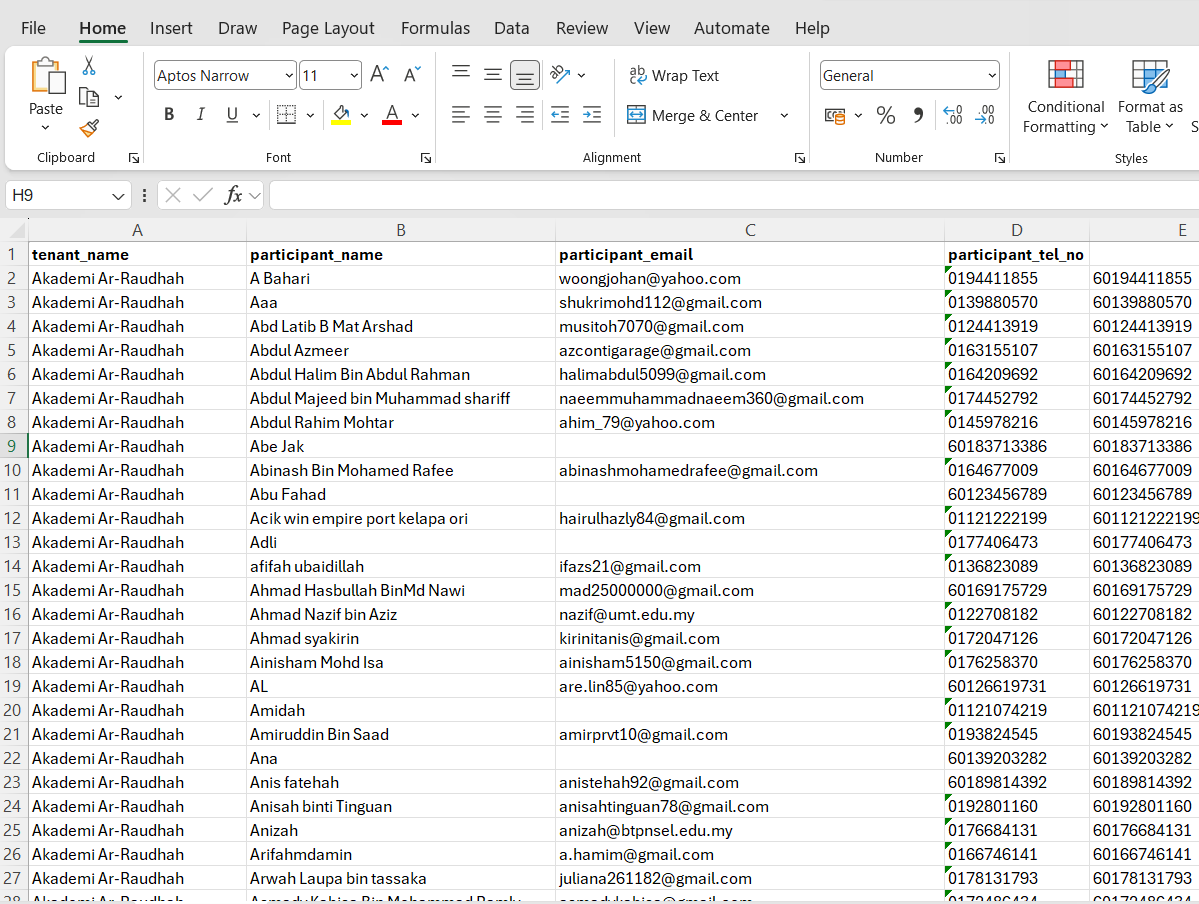
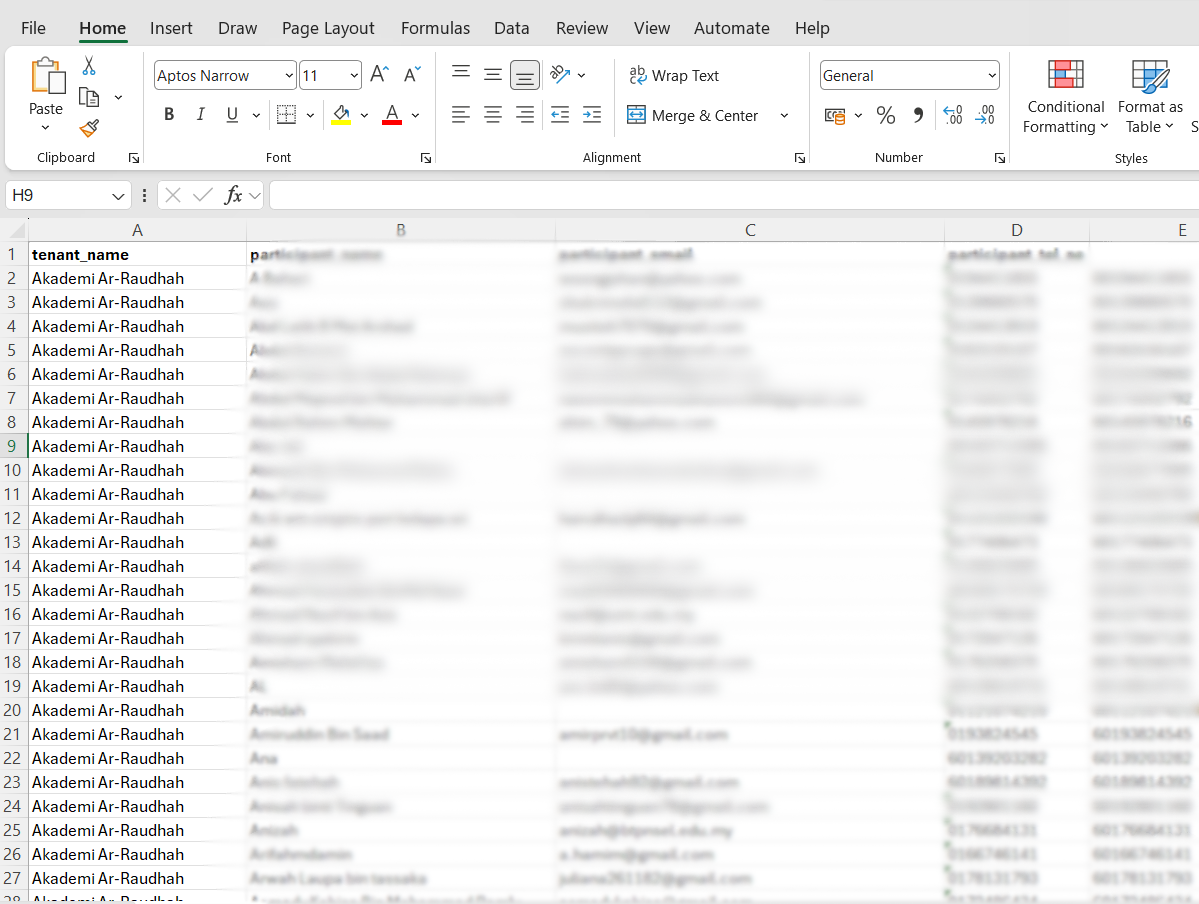
Add image

diff --git a/src/pages/ExecutiveSummary.jsx b/src/pages/ExecutiveSummary.jsx
@@ -40,19 +40,19 @@ function ExecutiveSummary() {
         >
           <div className="space-y-6">
             <p className={`leading-relaxed text-base first-letter:text-4xl first-letter:font-bold first-letter:text-blue-600 ${darkMode ? 'text-gray-200' : 'text-gray-700'}`}>
-              After completing my Industrial Training at HIT Digital Marketing Sdn. Bhd. under the Database Customer Management (DCM) Department, I gained valuable exposure to the professional working environment, particularly in the field of digital marketing and customer database management. The experience provided meaningful opportunities to develop practical skills and a deeper understanding of how digital marketing operations are conducted in a real organizational setting. This achievement brings a sense of pride and appreciation for the knowledge and experience gained, which will serve as a strong foundation for future career development.
+              After completing my Industrial Training at HIT Digital Marketing Sdn. Bhd. under the Database Customer Management (DCM) Department, I gained valuable exposure to the professional working environment, particularly in the field of digital marketing and customer database management. The experience provided meaningful opportunities to develop practical skills and a deeper understanding of how digital marketing operations are conducted in a real organizational setting. This achievement brought a sense of pride and appreciation for the knowledge and experience gained, which served as a strong foundation for future career development.
             </p>
             <p className={`leading-relaxed text-base ${darkMode ? 'text-gray-200' : 'text-gray-700'}`}>
               During the training period, I was involved in various tasks related to customer data management and digital marketing activities. These responsibilities included updating and organizing customer information, recording donation collections, and managing communication through the WhatsApp dashboard. I also assisted in setting up WhatsApp blasting campaigns, following up with customers, and verifying WhatsApp Business accounts to ensure smooth communication with clients and donors.
             </p>
             <p className={`leading-relaxed text-base ${darkMode ? 'text-gray-200' : 'text-gray-700'}`}>
-              Throughout the training, I had the opportunity to observe and participate in several meetings and seminars related to WhatsApp automation tools and digital marketing strategies. These experiences enhanced my understanding of how digital marketing campaigns are planned, executed, and monitored within an organization.
+              Throughout the training, I had the opportunity to observe and participate in several meetings and seminars related to WhatsApp automation tools and digital marketing strategies. These experiences enhanced my understanding of how digital marketing campaigns were planned, executed, and monitored within an organization.
             </p>
             <p className={`leading-relaxed text-base ${darkMode ? 'text-gray-200' : 'text-gray-700'}`}>
               The training also provided valuable insights into workplace professionalism, teamwork, and effective communication. Although some tasks required adapting to new tools and systems, the experience strengthened my ability to learn quickly, manage responsibilities efficiently, and work collaboratively within a team.
             </p>
             <p className={`leading-relaxed text-base first-letter:text-3xl first-letter:font-bold first-letter:text-blue-600 ${darkMode ? 'text-gray-200' : 'text-gray-700'}`}>
-              In conclusion, the Industrial Training at HIT Digital Marketing Sdn. Bhd. has been an important learning experience that contributed significantly to both my personal and professional development. The knowledge and skills gained throughout this period have prepared me to face future challenges with greater confidence, while fostering a strong appreciation for teamwork, responsibility, and continuous learning in a professional environment.
+              In conclusion, the Industrial Training at HIT Digital Marketing Sdn. Bhd. was an important learning experience that contributed significantly to both my personal and professional development. The knowledge and skills gained throughout this period prepared me to face future challenges with greater confidence, while fostering a strong appreciation for teamwork, responsibility, and continuous learning in a professional environment.
             </p>
           </div>
         </div>

diff --git a/src/pages/Conclusion.jsx b/src/pages/Conclusion.jsx
@@ -33,16 +33,16 @@ function Conclusion() {
           }`}
         >
           <p>
-            After completing my Industrial Training at Hit Digital Marketing Sdn. Bhd., I understood more clearly how the real working world operates.
-            I gained useful knowledge and hands-on experience. Finishing this training makes me proud and thankful for what I learned,
-            and I believe it will help me in my future plans. Throughout the training, I was introduced to new ideas and also saw firsthand
-            what life in a professional workplace is like.
+            After completing my Industrial Training at Hit Digital Marketing Sdn. Bhd., I understood more clearly how the real working world operated.
+            I gained useful knowledge and hands-on experience. Finishing this training made me proud and thankful for what I learned,
+            and I believed it would help me in my future plans. Throughout the training, I was introduced to new ideas and also saw firsthand
+            what life in a professional workplace was like.
           </p>
 
           <p>
             This program also gave students the chance to grow by observing the employees’ daily routines and their disciplined work attitude.
-            I became more aware of how my academic subjects connect to my career goals. Sometimes what we learn in theory does not match
-            the practical tasks during training, but I clearly saw that being serious and having real interest are important when preparing
+            I became more aware of how my academic subjects connected to my career goals. Sometimes what we learned in theory did not match
+            the practical tasks during training, but I clearly saw that being serious and having real interest was important when preparing
             for the professional world.
           </p>
 
@@ -55,7 +55,7 @@ function Conclusion() {
           <p>
             In summary, Industrial Training is an important opportunity for students to learn not only academically and technically, but also in the
             different responsibilities of an employee’s role. During this period, I experienced a real workplace and learned that building good
-            relationships between employees and trainees matters. These connections help strengthen professional bonds and support teamwork
+            relationships between employees and trainees mattered. These connections helped strengthen professional bonds and supported teamwork
             within the working environment.
           </p>
 

diff --git a/src/pages/weeks/week19.jsx b/src/pages/weeks/week19.jsx
@@ -9,8 +9,9 @@ function Week19() {
   const { darkMode } = useDarkMode();
   
   const images = [
-    '/images/week19.jpg',
-    '/images/week19.jpg'
+    "/images/Template2.png",
+    "/images/List.png",
+    "/images/Zulhijjah.png",
   ];
   
   const [currentIndex, setCurrentIndex] = useState(0);
@@ -29,9 +30,8 @@ function Week19() {
   const navigate = useNavigate();
 
   return (
-<section
-      className="relative flex flex-col flex-grow min-h-0 px-6 overflow-hidden"
-
+    <section
+      className="relative flex flex-col justify-center flex-grow px-6 py-20 overflow-hidden"
       style={{
         background: darkMode 
           ? "linear-gradient(135deg, #0a0a0a 0%, #1a1a1a 50%, #0a0a0a 100%)"
@@ -141,7 +141,7 @@ function Week19() {
                     key={idx}
                     src={src}
                     alt={`Week 19 Image ${idx + 1}`}
-                    className="w-full h-full flex-shrink-0 object-cover"
+                    className="w-full h-full flex-shrink-0 object-contain bg-black"
                   />
                 ))}
               </div>

diff --git a/src/pages/weeks/week10.jsx b/src/pages/weeks/week10.jsx
@@ -8,7 +8,7 @@ function Week10() {
   const { darkMode } = useDarkMode();
   const navigate = useNavigate();
 
-  const images = ["/images/week10.jpg", "/images/week10.jpg"];
+  const images = ["/images/AC1.png", "/images/AC2.jpeg", "/images/AC3.jpeg"];
   const [currentIndex, setCurrentIndex] = useState(0);
   const [isPaused, setIsPaused] = useState(false);
 
@@ -83,7 +83,12 @@ function Week10() {
             >
               <div className="flex h-full transition-transform duration-700 ease-in-out" style={{ transform: `translateX(-${currentIndex * 100}%)` }}>
                 {images.map((src, idx) => (
-                  <img key={idx} src={src} alt={`Week 10 Image ${idx + 1}`} className="w-full h-full flex-shrink-0 object-cover" />
+                  <img
+                    key={idx}
+                    src={src}
+                    alt={`Week 10 Image ${idx + 1}`}
+                    className="w-full h-full flex-shrink-0 object-contain bg-black"
+                  />
                 ))}
               </div>
 

diff --git a/src/pages/weeks/week11.jsx b/src/pages/weeks/week11.jsx
@@ -8,7 +8,7 @@ function Week11() {
   const { darkMode } = useDarkMode();
   const navigate = useNavigate();
 
-  const images = ["/images/week11.jpg", "/images/week11.jpg"];
+  const images = ["/images/NoClient.png", "/images/NoBlurr.png"];
   const [currentIndex, setCurrentIndex] = useState(0);
   const [isPaused, setIsPaused] = useState(false);
 
@@ -66,7 +66,7 @@ function Week11() {
             >
               <div className="flex h-full transition-transform duration-700 ease-in-out" style={{ transform: `translateX(-${currentIndex * 100}%)` }}>
                 {images.map((src, idx) => (
-                  <img key={idx} src={src} alt={`Week 11 Image ${idx + 1}`} className="w-full h-full flex-shrink-0 object-cover" />
+                  <img key={idx} src={src} alt={`Week 11 Image ${idx + 1}`} className="w-full h-full flex-shrink-0 object-contain bg-black" />
                 ))}
               </div>
               <button onClick={() => setCurrentIndex((prev) => (prev - 1 + images.length) % images.length)}

diff --git a/src/pages/weeks/week15.jsx b/src/pages/weeks/week15.jsx
@@ -9,8 +9,12 @@ function Week15() {
   const navigate = useNavigate();
 
   const images = [
-    '/images/week15.jpg',
-    '/images/week15.jpg'
+    "/images/MPR1.png",
+    "/images/MPR2.png",
+    "images/AiCourse.png",
+    "/images/Raya1.png",
+    "/images/Raya2.png",
+    "/images/Raya3.png",
   ];
   
   const [currentIndex, setCurrentIndex] = useState(0);
@@ -111,7 +115,7 @@ function Week15() {
                     key={idx}
                     src={src}
                     alt={`Week 15 Image ${idx + 1}`}
-                    className="w-full h-full flex-shrink-0 object-cover"
+                    className="w-full h-full flex-shrink-0 object-contain bg-black"
                   />
                 ))}
               </div>

diff --git a/src/pages/weeks/week16.jsx b/src/pages/weeks/week16.jsx
@@ -9,8 +9,11 @@ function Week16() {
   const { darkMode } = useDarkMode();
   
   const images = [
-    '/images/week16.jpg',
-    '/images/week16.jpg'
+    "images/Blasting.png",
+    "images/Broadcast.png",
+    "/images/Asset1.png",
+    "/images/Asset2.png",
+    "/images/Asset3.png",
   ];
   
   const [currentIndex, setCurrentIndex] = useState(0);
@@ -111,7 +114,7 @@ function Week16() {
                     key={idx}
                     src={src}
                     alt={`Week 16 Image ${idx + 1}`}
-                    className="w-full h-full flex-shrink-0 object-cover"
+                    className="w-full h-full flex-shrink-0 object-contain bg-black"
                   />
                 ))}
               </div>

diff --git a/src/pages/weeks/week12.jsx b/src/pages/weeks/week12.jsx
@@ -9,10 +9,7 @@ function Week12() {
   const navigate = useNavigate();
 
   
-  const images = [
-    '/images/week12.jpg',
-    '/images/week12.jpg'
-  ];
+  const images = ["/images/CutiRaya.png", "/images/HDRaya.png"];
   
   const [currentIndex, setCurrentIndex] = useState(0);
   const [isPaused, setIsPaused] = useState(false);
@@ -109,7 +106,7 @@ function Week12() {
                     key={idx}
                     src={src}
                     alt={`Week 12 Image ${idx + 1}`}
-                    className="w-full h-full flex-shrink-0 object-cover"
+                    className="w-full h-full flex-shrink-0 object-contain bg-black"
                   />
                 ))}
               </div>

diff --git a/src/App.jsx b/src/App.jsx
@@ -47,13 +47,12 @@ function App() {
   return (
     <DarkModeProvider>
       <Router>
-<div className="flex flex-col min-h-[100dvh] bg-white dark:bg-black transition-colors duration-300">
+        <div className="flex flex-col min-h-screen bg-white dark:bg-black transition-colors duration-300">
 
           <Navbar />
 
           {/* MAIN CONTENT */}
-          <main className="flex-grow flex flex-col min-h-0">
-
+          <main className="flex-grow flex flex-col">
             <Suspense fallback={<div className="flex-grow flex items-center justify-center py-20 text-gray-600 dark:text-gray-300">Loading...</div>}>
               <Routes>
                 <Route path="/" element={<Home />} />

diff --git a/src/pages/weeks/week18.jsx b/src/pages/weeks/week18.jsx
@@ -9,8 +9,9 @@ function Week18() {
   const { darkMode } = useDarkMode();
   
   const images = [
-    '/images/week18.jpg',
-    '/images/week18.jpg'
+    "/images/HDT.png",
+    "images/ReportMTBAM.png",
+    "images/IdeaKempen.png",
   ];
   
   const [currentIndex, setCurrentIndex] = useState(0);
@@ -111,7 +112,7 @@ function Week18() {
                     key={idx}
                     src={src}
                     alt={`Week 18 Image ${idx + 1}`}
-                    className="w-full h-full flex-shrink-0 object-cover"
+                    className="w-full h-full flex-shrink-0 object-contain bg-black"
                   />
                 ))}
               </div>

diff --git a/src/pages/weeks/week20.jsx b/src/pages/weeks/week20.jsx
@@ -7,8 +7,9 @@ function Week20() {
   const { darkMode } = useDarkMode();
   
   const images = [
-    '/images/week20.jpg',
-    '/images/week20.jpg'
+    "images/AC2.jpeg",
+    "images/WS_Dashboard.png",
+    "/images/MPRHybrid.png",
   ];
   
   const [currentIndex, setCurrentIndex] = useState(0);
@@ -68,7 +69,7 @@ function Week20() {
                     key={idx}
                     src={src}
                     alt={`Week 20 Image ${idx + 1}`}
-                    className="w-full h-full flex-shrink-0 object-cover"
+                    className="w-full h-full flex-shrink-0 object-contain bg-black"
                   />
                 ))}
               </div>

diff --git a/src/pages/weeks/week17.jsx b/src/pages/weeks/week17.jsx
@@ -9,8 +9,9 @@ function Week17() {
   const { darkMode } = useDarkMode();
   
   const images = [
-    '/images/week17.jpg',
-    '/images/week17.jpg'
+    "/images/SOP.png",
+    "/images/CCDB.png",
+    "/images/SOP2.png",
   ];
   
   const [currentIndex, setCurrentIndex] = useState(0);
@@ -111,7 +112,7 @@ function Week17() {
                     key={idx}
                     src={src}
                     alt={`Week 17 Image ${idx + 1}`}
-                    className="w-full h-full flex-shrink-0 object-cover"
+                    className="w-full h-full flex-shrink-0 object-contain bg-black"
                   />
                 ))}
               </div>
